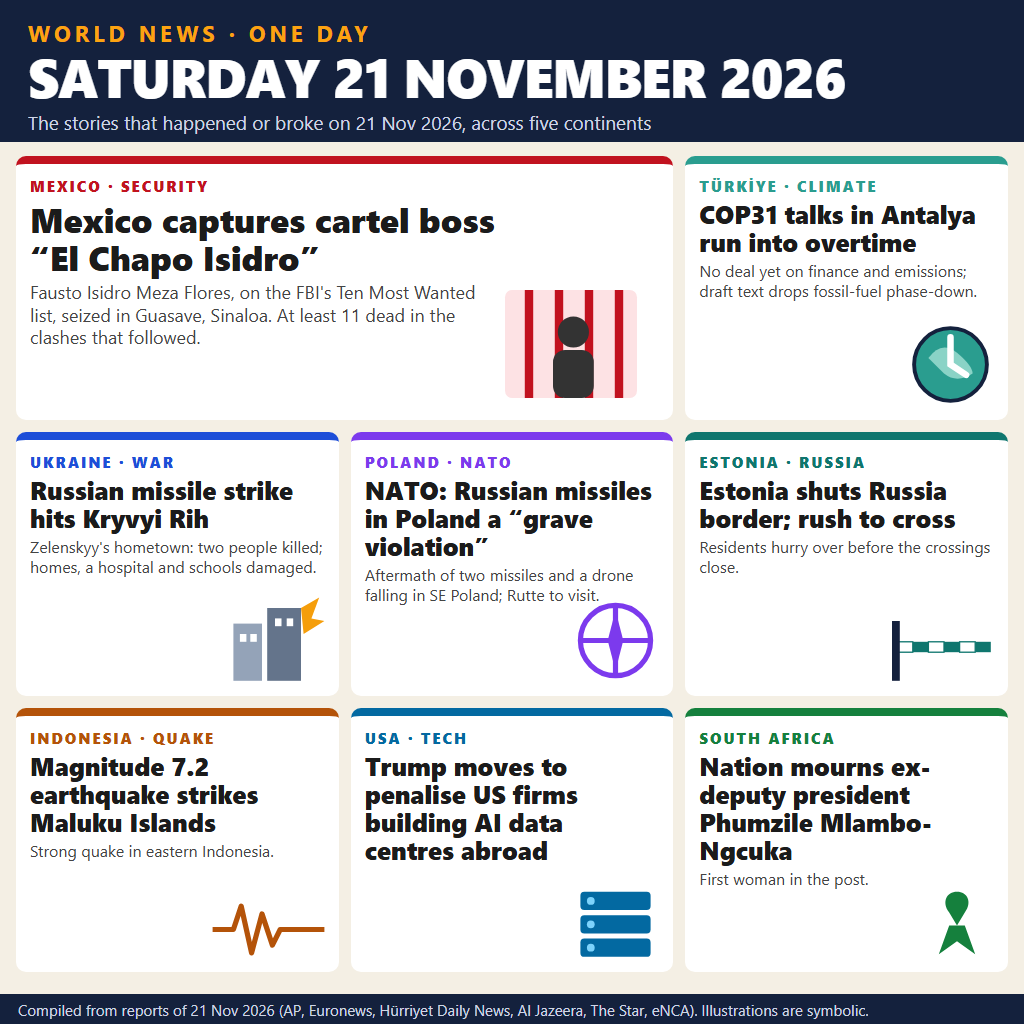
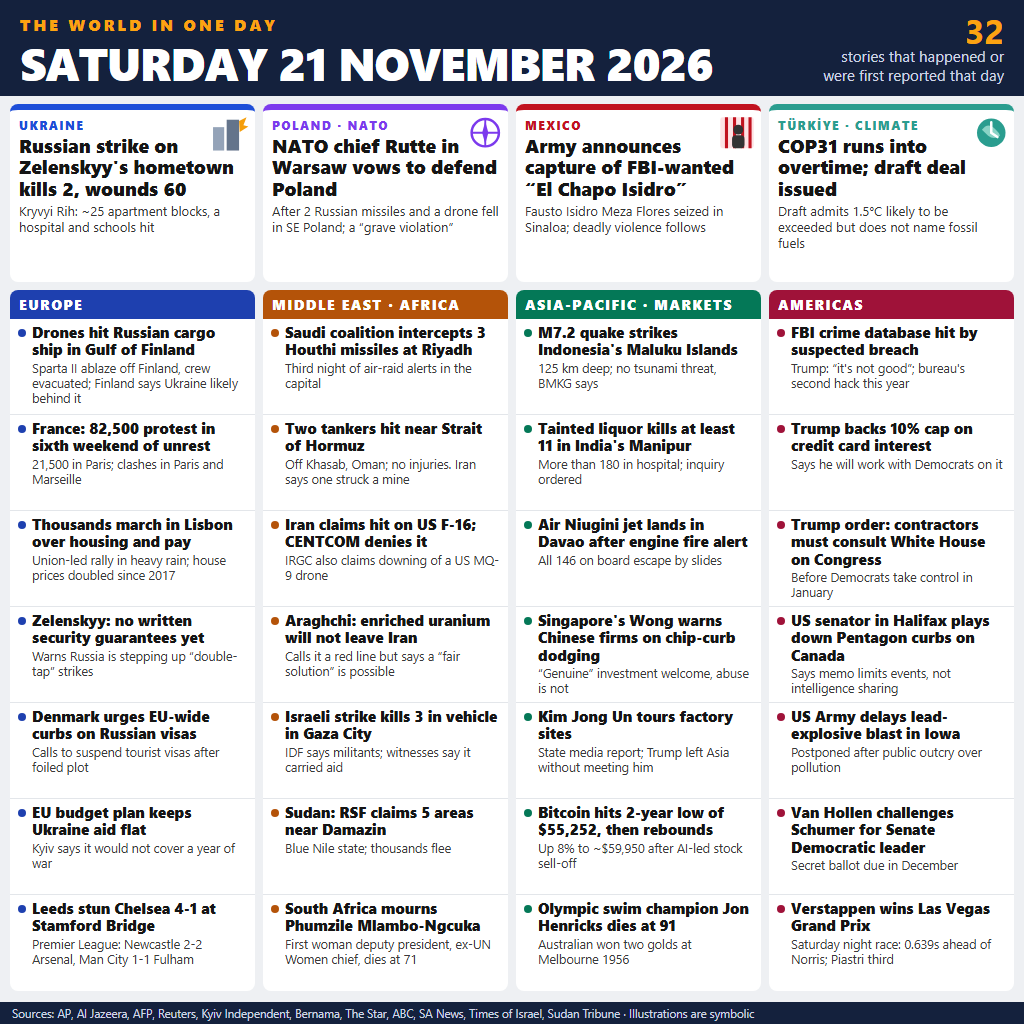
Rebuild with 32 verified stories of 21 November 2026

diff --git a/src/entry.html b/src/entry.html
@@ -3,80 +3,102 @@
 <style>
 *{box-sizing:border-box;margin:0;padding:0}
 html,body{width:1024px;height:1024px;overflow:hidden}
-body{background:#f4efe4;font-family:"Segoe UI",Arial,sans-serif;color:#1b1b1b}
-header{background:#14213d;color:#fff;padding:18px 28px 14px;height:142px}
-.kicker{font-size:22px;letter-spacing:4px;color:#fca311;font-weight:700}
-h1{font-size:54px;line-height:1.05;font-weight:900;letter-spacing:-1px}
-.sub{font-size:19px;color:#cfd6e6;margin-top:4px}
-main{display:grid;grid-template-columns:1fr 1fr 1fr;grid-auto-rows:264px;gap:12px;padding:14px 16px}
-.card{background:#fff;border-radius:10px;padding:12px 14px;display:flex;flex-direction:column;border-top:8px solid var(--c);position:relative;overflow:hidden}
-.lead{grid-column:span 2}
-.tag{font-size:15px;font-weight:800;letter-spacing:2px;color:var(--c)}
-.hd{font-size:25px;font-weight:800;line-height:1.12;margin-top:4px}
-.lead .hd{font-size:34px}
-.dt{font-size:16px;color:#444;margin-top:5px;line-height:1.25}
-.ic{position:absolute;right:12px;bottom:10px;transform:scale(1.3);transform-origin:bottom right}
-.lead .ic{transform:scale(1.2)}
-.lead .dt{max-width:470px;font-size:18px}
-footer{position:absolute;bottom:0;left:0;right:0;height:30px;background:#14213d;color:#cfd6e6;font-size:15px;padding:6px 18px}
+body{background:#eef0f3;font-family:"Segoe UI",Arial,sans-serif;color:#151515;position:relative}
+header{background:#14213d;color:#fff;padding:10px 20px 8px;height:96px;display:flex;align-items:center;justify-content:space-between}
+h1{font-size:46px;line-height:1;font-weight:900;letter-spacing:-1px}
+.kicker{font-size:16px;letter-spacing:3px;color:#fca311;font-weight:800;margin-bottom:4px}
+.count{text-align:right;font-size:15px;color:#cfd6e6;line-height:1.3}
+.count b{font-size:34px;color:#fca311;display:block;line-height:1}
+.leads{display:grid;grid-template-columns:repeat(4,1fr);gap:8px;padding:8px 10px 0}
+.lead{background:#fff;border-radius:8px;border-top:6px solid var(--c);padding:7px 9px;height:178px;position:relative;overflow:hidden}
+.tag{font-size:12px;font-weight:800;letter-spacing:1.5px;color:var(--c)}
+.lead .hd{font-size:19px;font-weight:800;line-height:1.12;margin-top:2px}
+.lead .dt{font-size:13px;color:#333;line-height:1.25;margin-top:4px}
+.lead svg{position:absolute;right:6px;top:6px;transform:scale(.62);transform-origin:top right}
+.cols{display:grid;grid-template-columns:repeat(4,1fr);gap:8px;padding:8px 10px}
+.col{background:#fff;border-radius:8px;overflow:hidden}
+.col h2{background:var(--c);color:#fff;font-size:14px;letter-spacing:1.5px;padding:5px 9px;font-weight:800}
+.it{padding:5px 9px 5px 22px;border-bottom:1px solid #e3e6ea;position:relative;height:96px}
+.it:last-child{border-bottom:none}
+.it::before{content:"";position:absolute;left:8px;top:10px;width:8px;height:8px;border-radius:50%;background:var(--c)}
+.it b{display:block;font-size:15px;line-height:1.15;font-weight:800}
+.it span{display:block;font-size:12.5px;line-height:1.22;color:#3a3a3a;margin-top:2px}
+footer{position:absolute;bottom:0;left:0;right:0;height:22px;background:#14213d;color:#cfd6e6;font-size:11.5px;padding:4px 12px}
 </style></head><body>
 <header>
- <div class="kicker">WORLD NEWS · ONE DAY</div>
- <h1>SATURDAY 21 NOVEMBER 2026</h1>
- <div class="sub">The stories that happened or broke on 21 Nov 2026, across five continents</div>
+ <div>
+  <div class="kicker">THE WORLD IN ONE DAY</div>
+  <h1>SATURDAY 21 NOVEMBER 2026</h1>
+ </div>
+ <div class="count"><b>32</b>stories that happened or<br>were first reported that day</div>
 </header>
-<main>
- <div class="card lead" style="--c:#c1121f">
-  <div class="tag">MEXICO · SECURITY</div>
-  <div class="hd">Mexico captures cartel boss<br>“El Chapo Isidro”</div>
-  <div class="dt">Fausto Isidro Meza Flores, on the FBI's Ten Most Wanted list, seized in Guasave, Sinaloa. At least 11 dead in the clashes that followed.</div>
-  <svg class="ic" width="150" height="110" viewBox="0 0 150 110">
-   <rect x="20" y="10" width="110" height="90" rx="6" fill="#fde2e4"/>
-   <g stroke="#c1121f" stroke-width="7"><line x1="40" y1="10" x2="40" y2="100"/><line x1="65" y1="10" x2="65" y2="100"/><line x1="90" y1="10" x2="90" y2="100"/><line x1="115" y1="10" x2="115" y2="100"/></g>
-   <circle cx="77" cy="45" r="13" fill="#333"/><rect x="60" y="60" width="34" height="40" rx="10" fill="#333"/>
-  </svg>
+<section class="leads">
+ <div class="lead" style="--c:#1d4ed8">
+  <div class="tag">UKRAINE</div>
+  <div class="hd">Russian strike on Zelenskyy's hometown kills 2, wounds 60</div>
+  <div class="dt">Kryvyi Rih: ~25 apartment blocks, a hospital and schools hit</div>
+  <svg width="62" height="56" viewBox="0 0 62 56"><rect x="4" y="18" width="18" height="38" fill="#94a3b8"/><rect x="26" y="6" width="20" height="50" fill="#64748b"/><path d="M46 8l12-6-5 13 8 2-14 9" fill="#f59e0b"/></svg>
  </div>
- <div class="card" style="--c:#2a9d8f">
-  <div class="tag">TÜRKİYE · CLIMATE</div>
-  <div class="hd">COP31 talks in Antalya run into overtime</div>
-  <div class="dt">No deal yet on finance and emissions; draft text drops fossil-fuel phase-down.</div>
-  <svg class="ic" width="70" height="70" viewBox="0 0 70 70"><circle cx="35" cy="35" r="28" fill="#2a9d8f"/><path d="M18 30q10-14 22-4t12 16q-12 8-22 0" fill="#8ad3c6"/><circle cx="35" cy="35" r="28" fill="none" stroke="#14213d" stroke-width="3"/><path d="M35 14v21l12 8" stroke="#fff" stroke-width="5" fill="none" stroke-linecap="round"/></svg>
- </div>
- <div class="card" style="--c:#1d4ed8">
-  <div class="tag">UKRAINE · WAR</div>
-  <div class="hd">Russian missile strike hits Kryvyi Rih</div>
-  <div class="dt">Zelenskyy's hometown: two people killed; homes, a hospital and schools damaged.</div>
-  <svg class="ic" width="80" height="70" viewBox="0 0 80 70"><rect x="8" y="22" width="22" height="44" fill="#94a3b8"/><rect x="34" y="10" width="26" height="56" fill="#64748b"/><path d="M60 10l14-8-6 16 10 2-16 10" fill="#f59e0b"/><g fill="#fff"><rect x="13" y="30" width="5" height="6"/><rect x="21" y="30" width="5" height="6"/><rect x="40" y="18" width="5" height="6"/><rect x="49" y="18" width="5" height="6"/></g></svg>
- </div>
- <div class="card" style="--c:#7c3aed">
+ <div class="lead" style="--c:#7c3aed">
   <div class="tag">POLAND · NATO</div>
-  <div class="hd">NATO: Russian missiles in Poland a “grave violation”</div>
-  <div class="dt">Aftermath of two missiles and a drone falling in SE Poland; Rutte to visit.</div>
-  <svg class="ic" width="70" height="70" viewBox="0 0 70 70"><circle cx="35" cy="35" r="27" fill="none" stroke="#7c3aed" stroke-width="4"/><path d="M35 8v54M8 35h54" stroke="#7c3aed" stroke-width="4"/><path d="M35 12l6 23-6 23-6-23z" fill="#7c3aed"/></svg>
+  <div class="hd">NATO chief Rutte in Warsaw vows to defend Poland</div>
+  <div class="dt">After 2 Russian missiles and a drone fell in SE Poland; a “grave violation”</div>
+  <svg width="54" height="54" viewBox="0 0 54 54"><circle cx="27" cy="27" r="22" fill="none" stroke="#7c3aed" stroke-width="4"/><path d="M27 5v44M5 27h44" stroke="#7c3aed" stroke-width="3"/><path d="M27 9l5 18-5 18-5-18z" fill="#7c3aed"/></svg>
  </div>
- <div class="card" style="--c:#0f766e">
-  <div class="tag">ESTONIA · RUSSIA</div>
-  <div class="hd">Estonia shuts Russia border; rush to cross</div>
-  <div class="dt">Residents hurry over before the crossings close.</div>
-  <svg class="ic" width="80" height="60" viewBox="0 0 80 60"><rect x="4" y="26" width="72" height="8" fill="#0f766e"/><rect x="4" y="26" width="12" height="8" fill="#fff" stroke="#0f766e"/><rect x="28" y="26" width="12" height="8" fill="#fff" stroke="#0f766e"/><rect x="52" y="26" width="12" height="8" fill="#fff" stroke="#0f766e"/><rect x="0" y="10" width="6" height="46" fill="#14213d"/></svg>
+ <div class="lead" style="--c:#c1121f">
+  <div class="tag">MEXICO</div>
+  <div class="hd">Army announces capture of FBI-wanted “El Chapo Isidro”</div>
+  <div class="dt">Fausto Isidro Meza Flores seized in Sinaloa; deadly violence follows</div>
+  <svg width="58" height="54" viewBox="0 0 58 54"><rect x="2" y="2" width="54" height="50" rx="4" fill="#fde2e4"/><g stroke="#c1121f" stroke-width="5"><line x1="12" y1="2" x2="12" y2="52"/><line x1="25" y1="2" x2="25" y2="52"/><line x1="38" y1="2" x2="38" y2="52"/><line x1="50" y1="2" x2="50" y2="52"/></g><circle cx="31" cy="22" r="8" fill="#333"/><rect x="21" y="31" width="20" height="21" rx="6" fill="#333"/></svg>
  </div>
- <div class="card" style="--c:#b45309">
-  <div class="tag">INDONESIA · QUAKE</div>
-  <div class="hd">Magnitude 7.2 earthquake strikes Maluku Islands</div>
-  <div class="dt">Strong quake in eastern Indonesia.</div>
-  <svg class="ic" width="90" height="50" viewBox="0 0 90 50"><path d="M2 25h16l6-18 8 36 8-30 8 24 6-12h34" stroke="#b45309" stroke-width="4" fill="none" stroke-linejoin="round"/></svg>
+ <div class="lead" style="--c:#2a9d8f">
+  <div class="tag">TÜRKİYE · CLIMATE</div>
+  <div class="hd">COP31 runs into overtime; draft deal issued</div>
+  <div class="dt">Draft admits 1.5°C likely to be exceeded but does not name fossil fuels</div>
+  <svg width="54" height="54" viewBox="0 0 54 54"><circle cx="27" cy="27" r="23" fill="#2a9d8f"/><path d="M12 22q9-12 19-3t10 13q-10 7-19 0" fill="#8ad3c6"/><path d="M27 10v17l10 7" stroke="#fff" stroke-width="4" fill="none" stroke-linecap="round"/></svg>
  </div>
- <div class="card" style="--c:#0369a1">
-  <div class="tag">USA · TECH</div>
-  <div class="hd">Trump moves to penalise US firms building AI data centres abroad</div>
-  <svg class="ic" width="70" height="60" viewBox="0 0 70 60"><rect x="8" y="6" width="54" height="14" rx="3" fill="#0369a1"/><rect x="8" y="24" width="54" height="14" rx="3" fill="#0369a1"/><rect x="8" y="42" width="54" height="14" rx="3" fill="#0369a1"/><g fill="#7dd3fc"><circle cx="16" cy="13" r="3"/><circle cx="16" cy="31" r="3"/><circle cx="16" cy="49" r="3"/></g></svg>
+</section>
+<section class="cols">
+ <div class="col" style="--c:#1e40af">
+  <h2>EUROPE</h2>
+  <div class="it"><b>Drones hit Russian cargo ship in Gulf of Finland</b><span>Sparta II ablaze off Finland, crew evacuated; Finland says Ukraine likely behind it</span></div>
+  <div class="it"><b>France: 82,500 protest in sixth weekend of unrest</b><span>21,500 in Paris; clashes in Paris and Marseille</span></div>
+  <div class="it"><b>Thousands march in Lisbon over housing and pay</b><span>Union-led rally in heavy rain; house prices doubled since 2017</span></div>
+  <div class="it"><b>Zelenskyy: no written security guarantees yet</b><span>Warns Russia is stepping up “double-tap” strikes</span></div>
+  <div class="it"><b>Denmark urges EU-wide curbs on Russian visas</b><span>Calls to suspend tourist visas after foiled plot</span></div>
+  <div class="it"><b>EU budget plan keeps Ukraine aid flat</b><span>Kyiv says it would not cover a year of war</span></div>
+  <div class="it"><b>Leeds stun Chelsea 4-1 at Stamford Bridge</b><span>Premier League: Newcastle 2-2 Arsenal, Man City 1-1 Fulham</span></div>
  </div>
- <div class="card" style="--c:#15803d">
-  <div class="tag">SOUTH AFRICA</div>
-  <div class="hd">Nation mourns ex-deputy president Phumzile Mlambo-Ngcuka</div>
-  <div class="dt">First woman in the post.</div>
-  <svg class="ic" width="60" height="60" viewBox="0 0 60 60"><path d="M30 6c8 0 12 8 6 16l-6 10-6-10c-6-8-2-16 6-16z" fill="#15803d"/><path d="M24 32l-8 22 14-10 14 10-8-22" fill="#15803d"/></svg>
+ <div class="col" style="--c:#b45309">
+  <h2>MIDDLE EAST · AFRICA</h2>
+  <div class="it"><b>Saudi coalition intercepts 3 Houthi missiles at Riyadh</b><span>Third night of air-raid alerts in the capital</span></div>
+  <div class="it"><b>Two tankers hit near Strait of Hormuz</b><span>Off Khasab, Oman; no injuries. Iran says one struck a mine</span></div>
+  <div class="it"><b>Iran claims hit on US F-16; CENTCOM denies it</b><span>IRGC also claims downing of a US MQ-9 drone</span></div>
+  <div class="it"><b>Araghchi: enriched uranium will not leave Iran</b><span>Calls it a red line but says a “fair solution” is possible</span></div>
+  <div class="it"><b>Israeli strike kills 3 in vehicle in Gaza City</b><span>IDF says militants; witnesses say it carried aid</span></div>
+  <div class="it"><b>Sudan: RSF claims 5 areas near Damazin</b><span>Blue Nile state; thousands flee</span></div>
+  <div class="it"><b>South Africa mourns Phumzile Mlambo-Ngcuka</b><span>First woman deputy president, ex-UN Women chief, dies at 71</span></div>
  </div>
-</main>
-<footer>Compiled from reports of 21 Nov 2026 (AP, Euronews, Hürriyet Daily News, Al Jazeera, The Star, eNCA). Illustrations are symbolic.</footer>
+ <div class="col" style="--c:#047857">
+  <h2>ASIA-PACIFIC · MARKETS</h2>
+  <div class="it"><b>M7.2 quake strikes Indonesia's Maluku Islands</b><span>125 km deep; no tsunami threat, BMKG says</span></div>
+  <div class="it"><b>Tainted liquor kills at least 11 in India's Manipur</b><span>More than 180 in hospital; inquiry ordered</span></div>
+  <div class="it"><b>Air Niugini jet lands in Davao after engine fire alert</b><span>All 146 on board escape by slides</span></div>
+  <div class="it"><b>Singapore's Wong warns Chinese firms on chip-curb dodging</b><span>“Genuine” investment welcome, abuse is not</span></div>
+  <div class="it"><b>Kim Jong Un tours factory sites</b><span>State media report; Trump left Asia without meeting him</span></div>
+  <div class="it"><b>Bitcoin hits 2-year low of $55,252, then rebounds</b><span>Up 8% to ~$59,950 after AI-led stock sell-off</span></div>
+  <div class="it"><b>Olympic swim champion Jon Henricks dies at 91</b><span>Australian won two golds at Melbourne 1956</span></div>
+ </div>
+ <div class="col" style="--c:#9f1239">
+  <h2>AMERICAS</h2>
+  <div class="it"><b>FBI crime database hit by suspected breach</b><span>Trump: “it's not good”; bureau's second hack this year</span></div>
+  <div class="it"><b>Trump backs 10% cap on credit card interest</b><span>Says he will work with Democrats on it</span></div>
+  <div class="it"><b>Trump order: contractors must consult White House on Congress</b><span>Before Democrats take control in January</span></div>
+  <div class="it"><b>US senator in Halifax plays down Pentagon curbs on Canada</b><span>Says memo limits events, not intelligence sharing</span></div>
+  <div class="it"><b>US Army delays lead-explosive blast in Iowa</b><span>Postponed after public outcry over pollution</span></div>
+  <div class="it"><b>Van Hollen challenges Schumer for Senate Democratic leader</b><span>Secret ballot due in December</span></div>
+  <div class="it"><b>Verstappen wins Las Vegas Grand Prix</b><span>Saturday night race: 0.639s ahead of Norris; Piastri third</span></div>
+ </div>
+</section>
+<footer>Sources: AP, Al Jazeera, AFP, Reuters, Kyiv Independent, Bernama, The Star, ABC, SA News, Times of Israel, Sudan Tribune · Illustrations are symbolic</footer>
 </body></html>

diff --git a/README.md b/README.md
@@ -4,7 +4,7 @@
 [![rank](https://make.fun/badge/news-image-20261121/katsuo023dev-collab/news-image-20261121-makefun/rank.svg)](https://make.fun/bounty/news-image-20261121/leaderboard?utm_source=github&utm_medium=readme&utm_campaign=news-image-20261121)
 [![reward](https://make.fun/badge/news-image-20261121/katsuo023dev-collab/news-image-20261121-makefun/reward.svg)](https://make.fun/bounty/news-image-20261121?utm_source=github&utm_medium=readme&utm_campaign=news-image-20261121)
 
-One infographic of the world's news on Saturday 21 November 2026: Mexico's capture of "El Chapo Isidro", COP31 overtime in Antalya, a Russian strike on Kryvyi Rih, NATO on Russian missiles in Poland, Estonia's border closure, a Maluku earthquake, US AI data-centre policy and South Africa's mourning. The image is drawn from `src/entry.html` and `main.ts` copies it to `/output/entry.png`.
+One infographic of 32 world news stories from Saturday 21 November 2026, in four lead stories and four regional columns (Europe, Middle East and Africa, Asia-Pacific and markets, the Americas). Every story was checked to have happened or been first reported on 21 November. The image is drawn from `src/entry.html` and `main.ts` copies it to `/output/entry.png`.
 
 ## Run it
 
